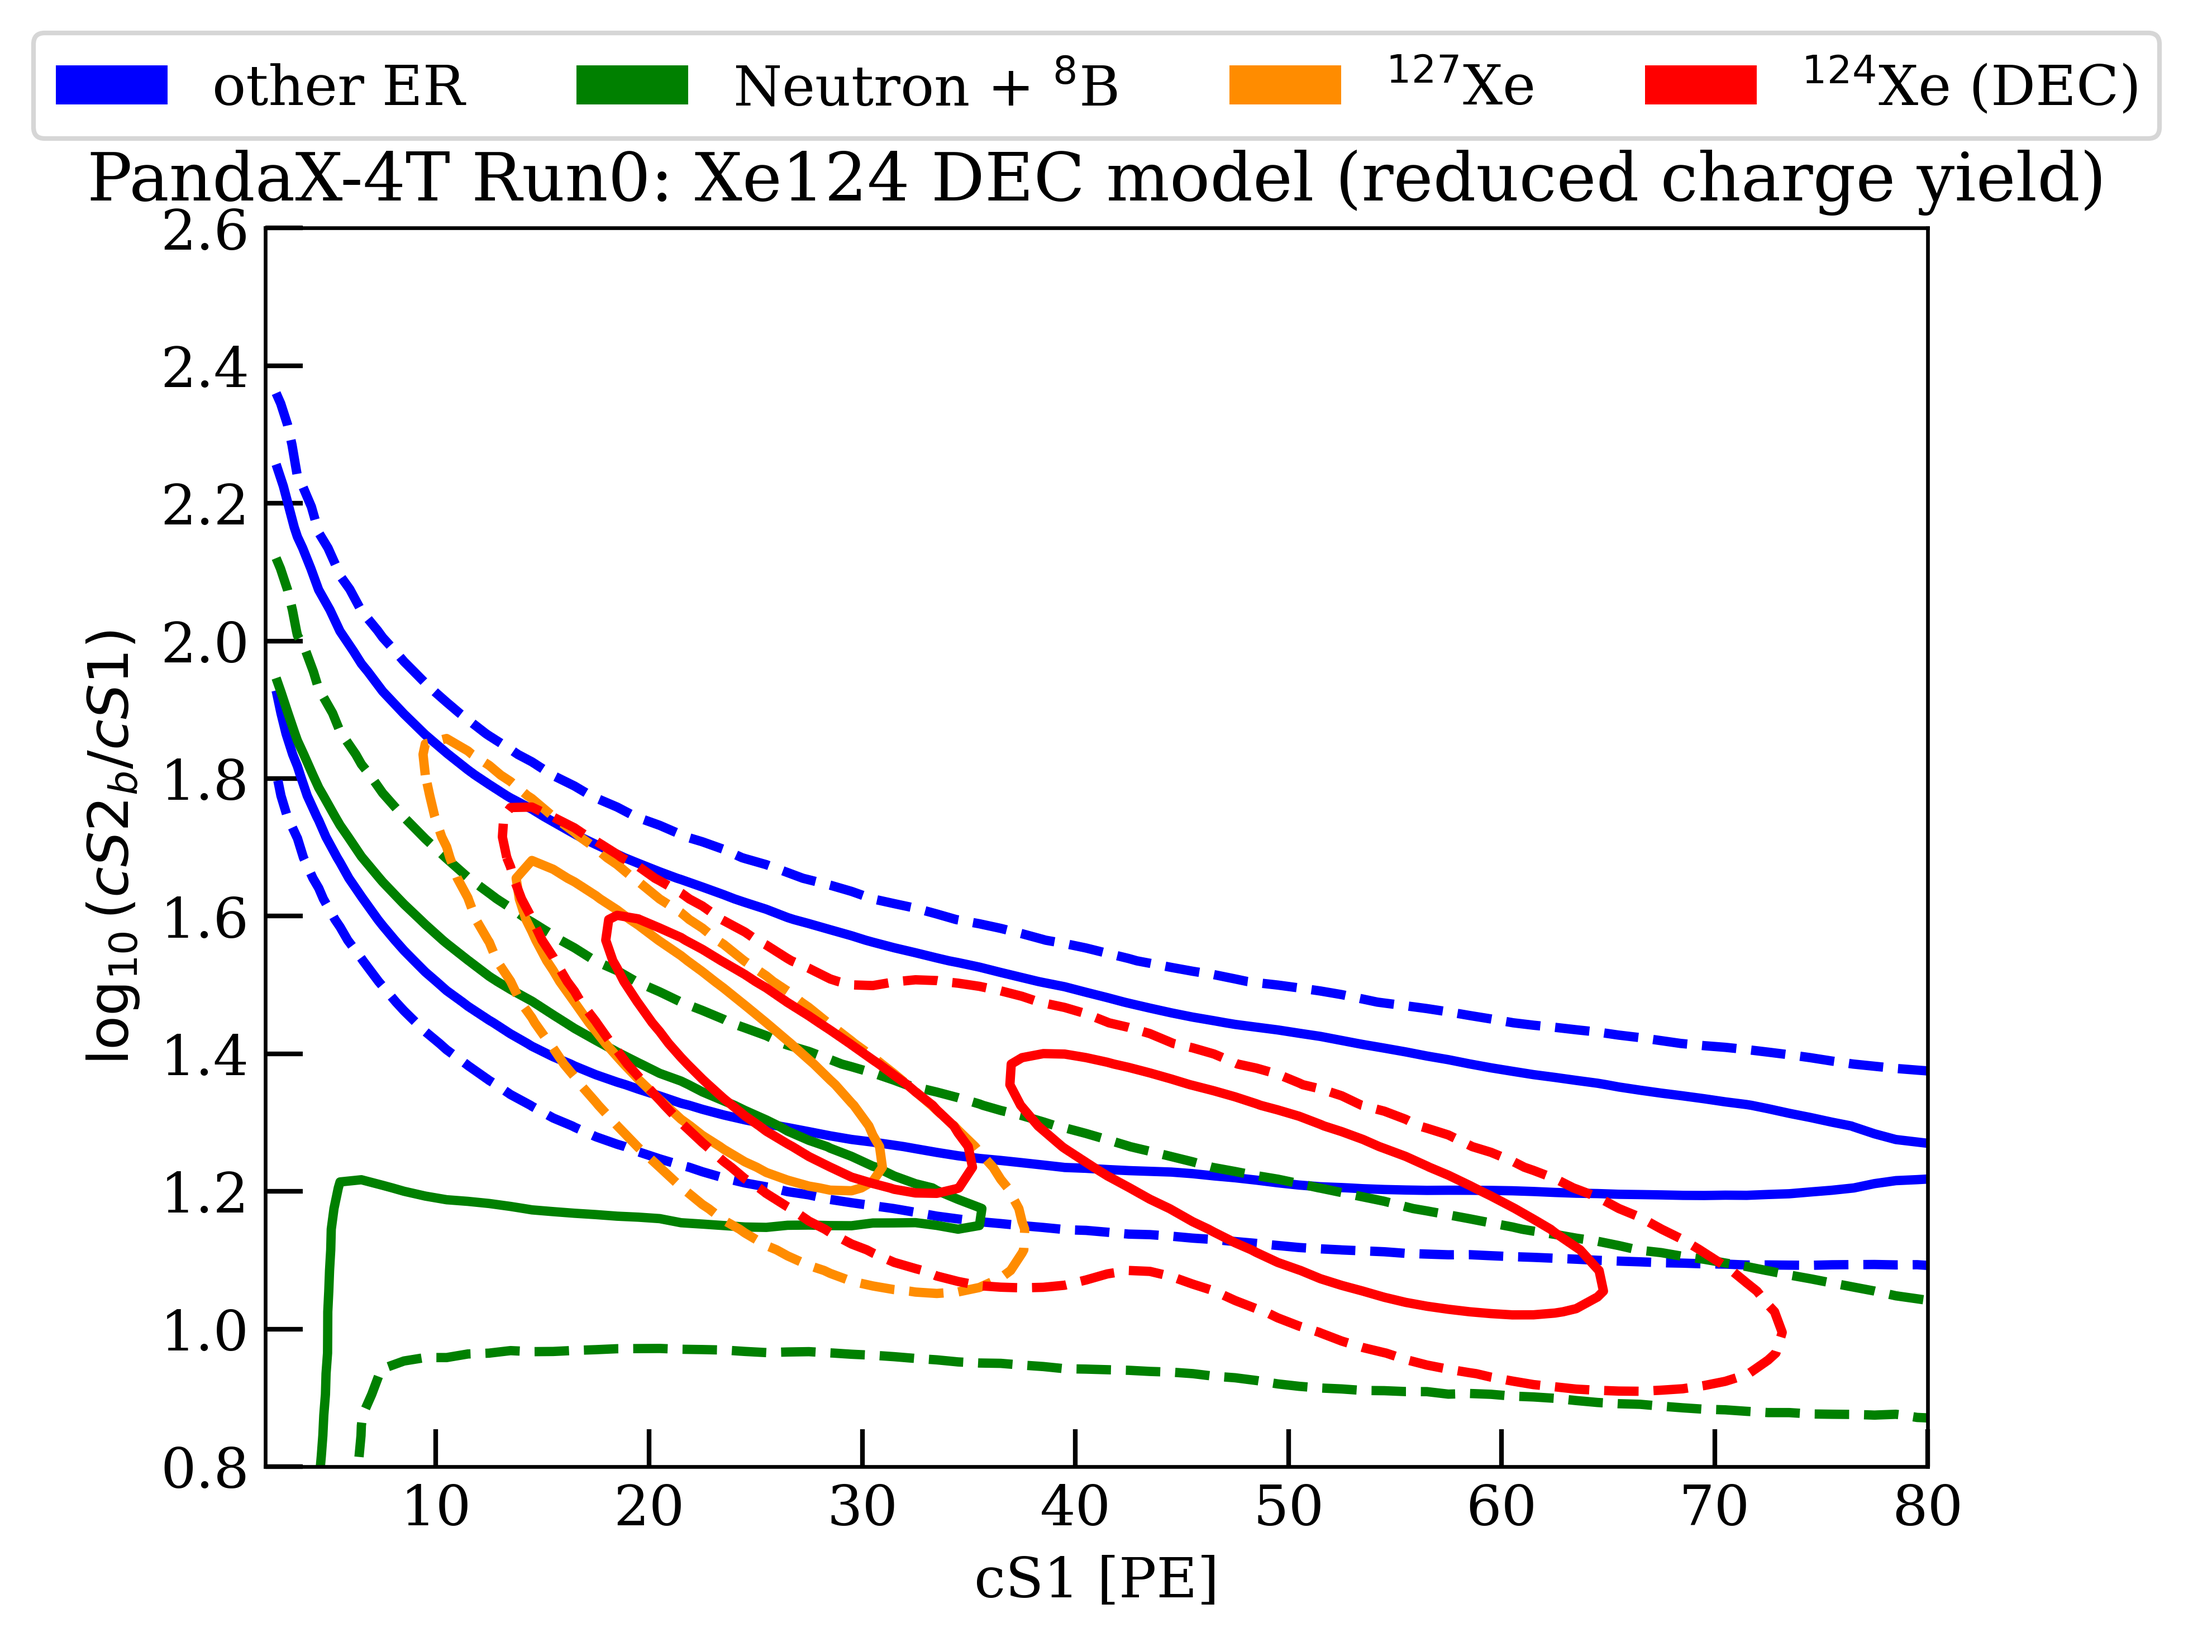
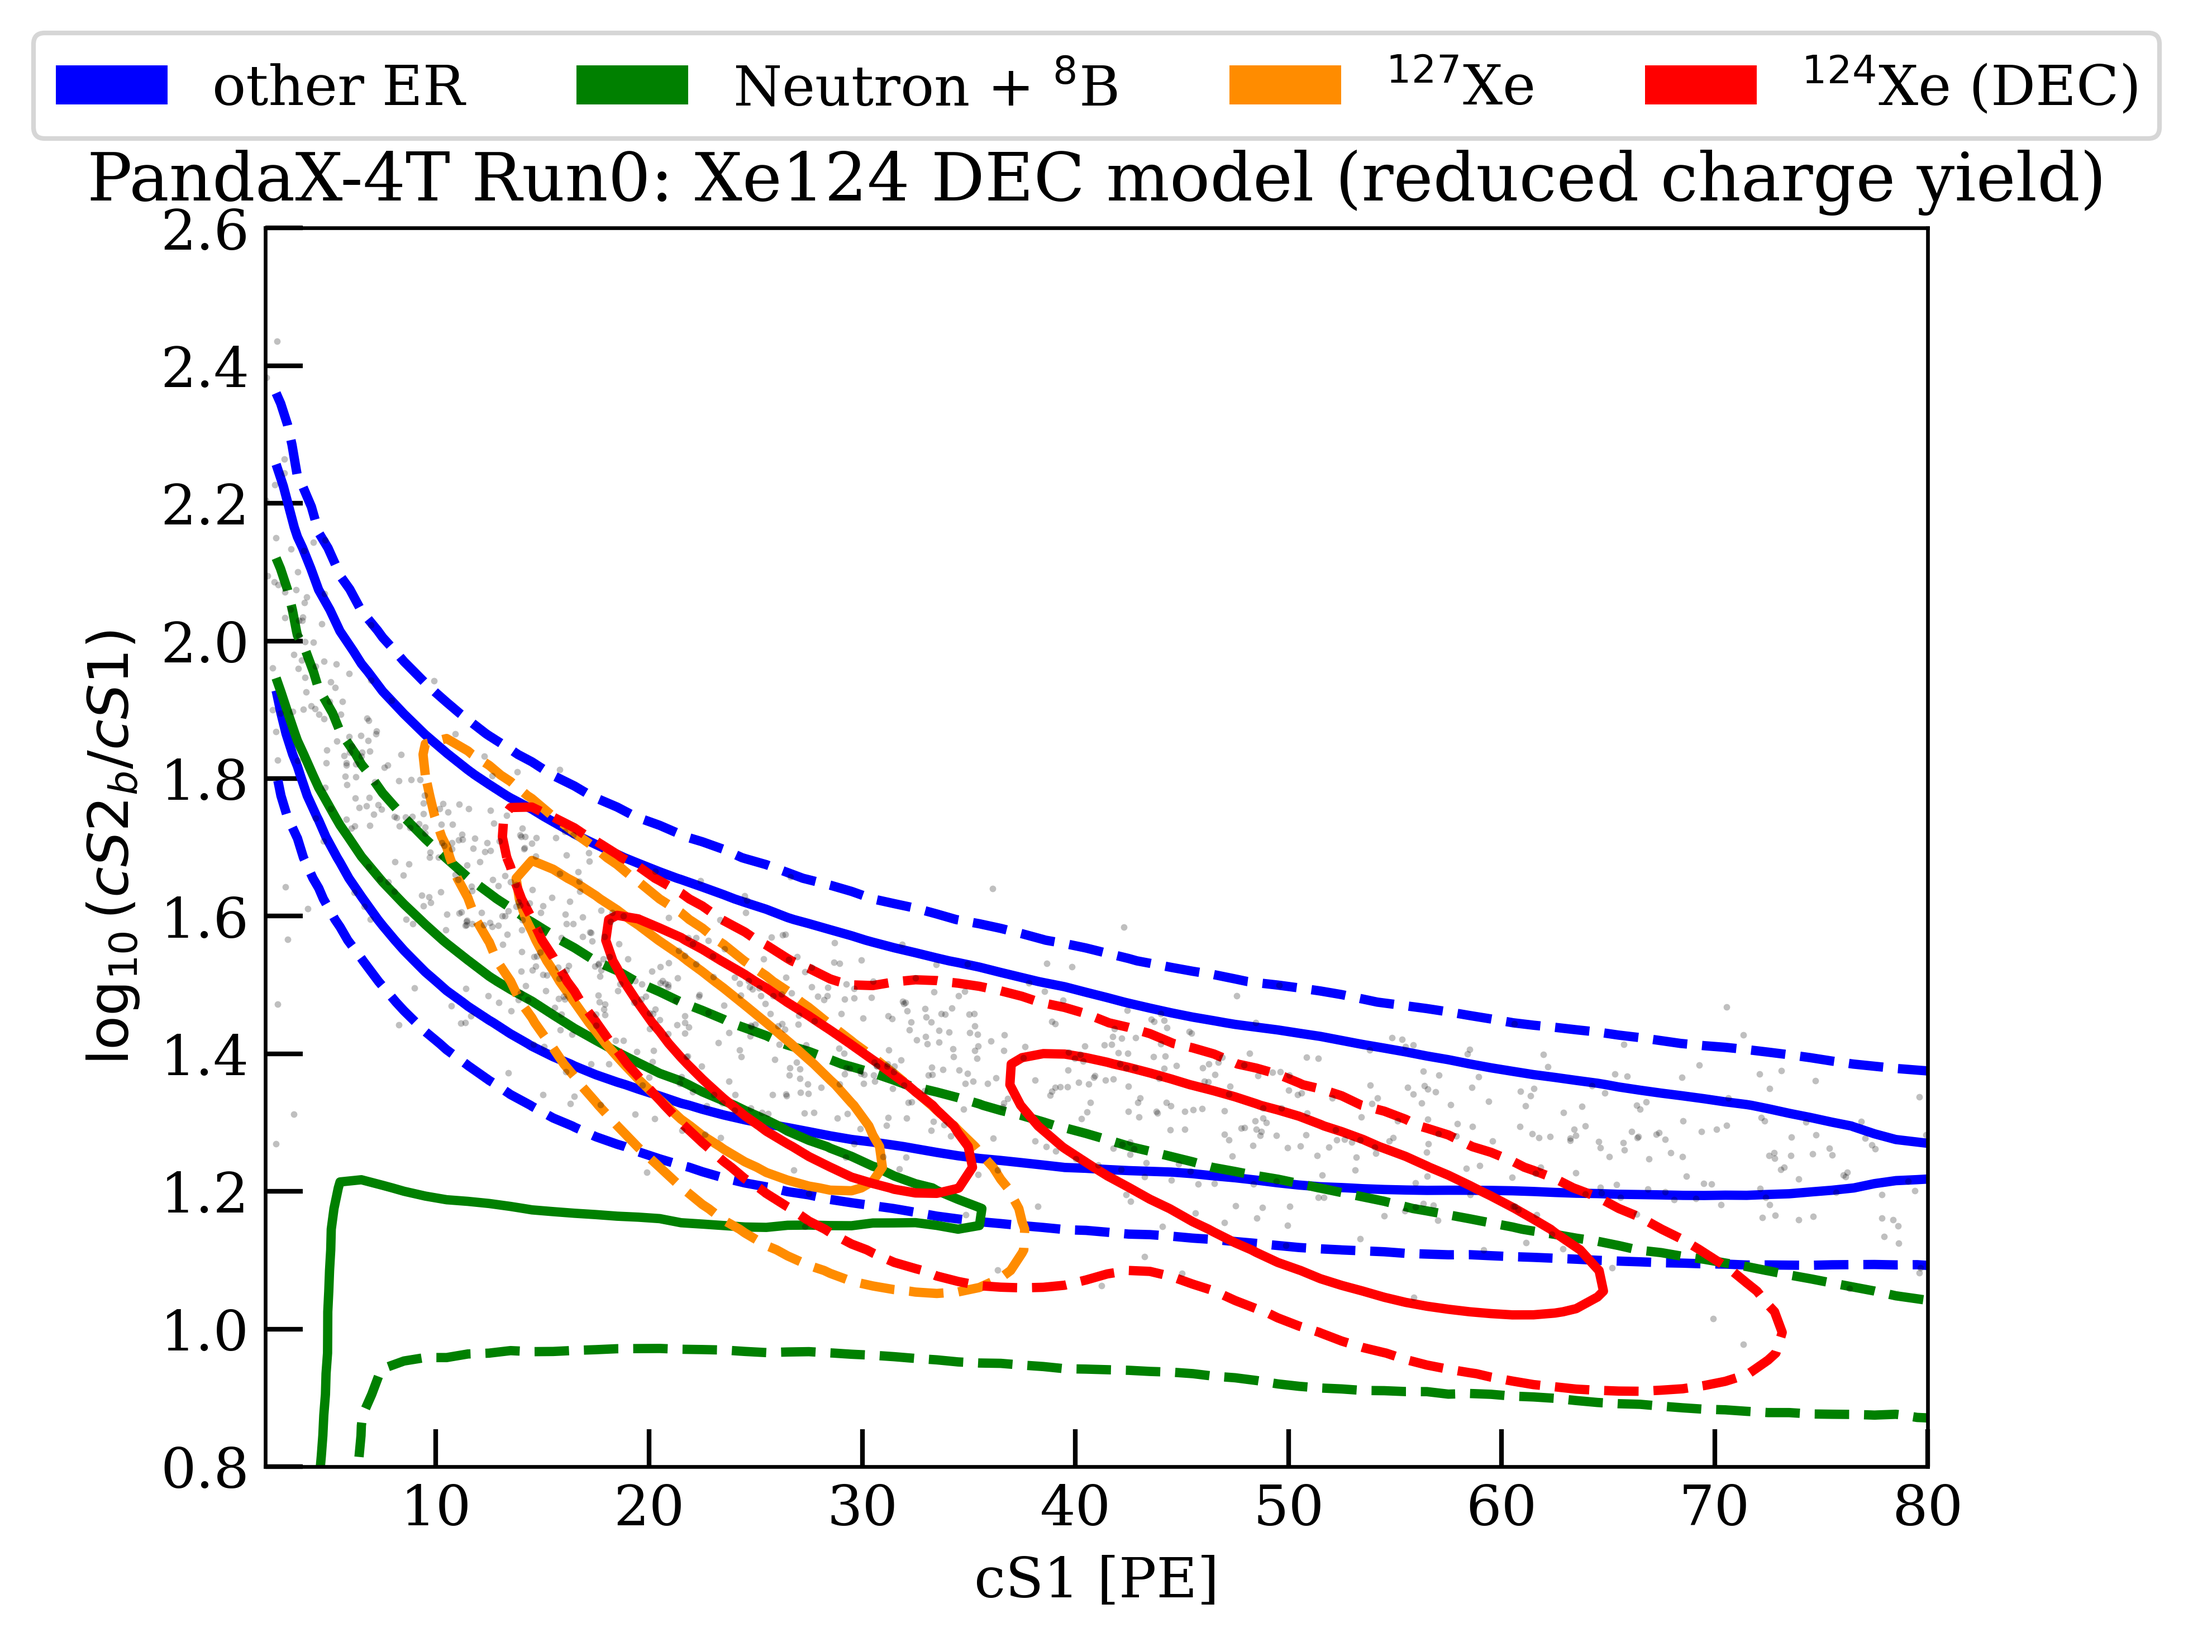
model_and_statistics: add Xe124 DEC treatment + contour figure with data points
Add a "Xe124 Double Electron Capture (Alternative Model)" subsection to the
PandaX-4T experiment section: the LL (10.0 keV) / LM (5.98 keV) split, the
quenched charge yield (Q_LM/Q_beta=0.88, Q_LL/Q_beta free), the quanta-conserving
g2b/g1 quench mechanism, and the PandaX-only best fit Q_LL/Q_beta = 0.79 (+0.08/
-0.10), consistent with LZ (0.70 +/- 0.04) at 0.9 sigma -> shared with LZ.

Add Fig. 4.12 (the Xe124 DEC + Xe127 best-fit contours for Run0/Run1) and overlay
the digitized candidate events as grey points (benchmark.ipynb cell 59 updated to
scatter the data on the DEC contour plot; plots regenerated).

diff --git a/model_and_statistics.md b/model_and_statistics.md
@@ -659,6 +659,14 @@ Tables 4.5a–b compare the nominal and best-fit expected number of events. The 
 | :----------------------------------------------------------: |
 | **Fig. 4.11:** Upper limit on the spin-independent WIMP-nucleon cross section at 90% confidence level as a function of the WIMP mass from the combined PandaX-4T Run0 & Run1 results. The orange line shows the literature value [[15]](#pandax_prl) without applying power constraints, and the blue line shows the upper limit from `diamx`. The two agree to within $\sim 5\%$ above $\sim 100$ GeV/c$^2$. |
 
+#### ${}^{124}$Xe Double Electron Capture (Alternative Model)
+
+As an alternative to the single mono-energetic ${}^{124}$Xe line used in the baseline fit, `diamx` also models its double-electron-capture (DEC) structure explicitly, mirroring the XENONnT and LZ treatment. The capture proceeds through the LL shell ($10.0$ keV) and the LM shell ($5.98$ keV), split by their relative branching, and the DEC charge yield is *quenched* relative to a $\beta$ decay of the same energy. Following LZ WS2024 [[4]](#lz_ws2024), the LM shell uses $Q_{LM}/Q_\beta = 0.88$ (the same value as the ${}^{127}$Xe L-shell electron capture), while the deeper LL shell has a still-lower charge yield $Q_{LL}/Q_\beta$ left as a **free shape parameter**. The quench is applied exactly as for the other experiments: the bottom-S2 gain is scaled $g_{2b}\to g_{2b}\,(Q/Q_\beta)$ and the freed quanta are returned to light via $g_1\to g_1\cdot\mathrm{ly\_scalar}$, conserving the total number of quanta (and hence the deposited energy). Because PandaX's drift field ($84$ V/cm in Run1) is close to LZ WS2024, $Q_{LL}/Q_\beta$ is **shared with LZ** in a combined fit; a PandaX-only fit gives $Q_{LL}/Q_\beta = 0.79^{+0.08}_{-0.10}$ (profile likelihood), consistent with the LZ value $0.70 \pm 0.04$ at $0.9\sigma$, which justifies sharing it. Fig. 4.12 shows the resulting ${}^{124}$Xe (LM + LL) and ${}^{127}$Xe contours, which sit below the ER band because of their reduced charge yield.
+
+| <img src="plots/pandax4t_run0_dec_xe_contours.png" style="zoom:12.5%;" /> <img src="plots/pandax4t_run1_dec_xe_contours.png" style="zoom:12.5%;" /> |
+| :----------------------------------------------------------: |
+| **Fig. 4.12:** ${}^{124}$Xe DEC and ${}^{127}$Xe best-fit contours (with the other-ER and neutron + ${}^8$B backgrounds) in the $(cS1, \log_{10}(cS2_b/cS1))$ space for Run0 (left) and Run1 (right). The ${}^{124}$Xe DEC produces two quenched peaks (LM at $5.98$ keV, LL at $10$ keV); Run1 has no ${}^{127}$Xe. Grey points are the digitized candidate events of [[15]](#pandax_prl). The quenched Xe lines lie below the ER band owing to their reduced charge yield $Q/Q_\beta < 1$. |
+
 ## References
 
 <a id="xenonnt_sr0">[1]</a> E. Aprile et al., First Dark Matter Search with Nuclear Recoils from the XENONnT Experiment, [Phys. Rev. Lett. **131**, 041003 (2023)](https://doi.org/10.1103/PhysRevLett.131.041003).
